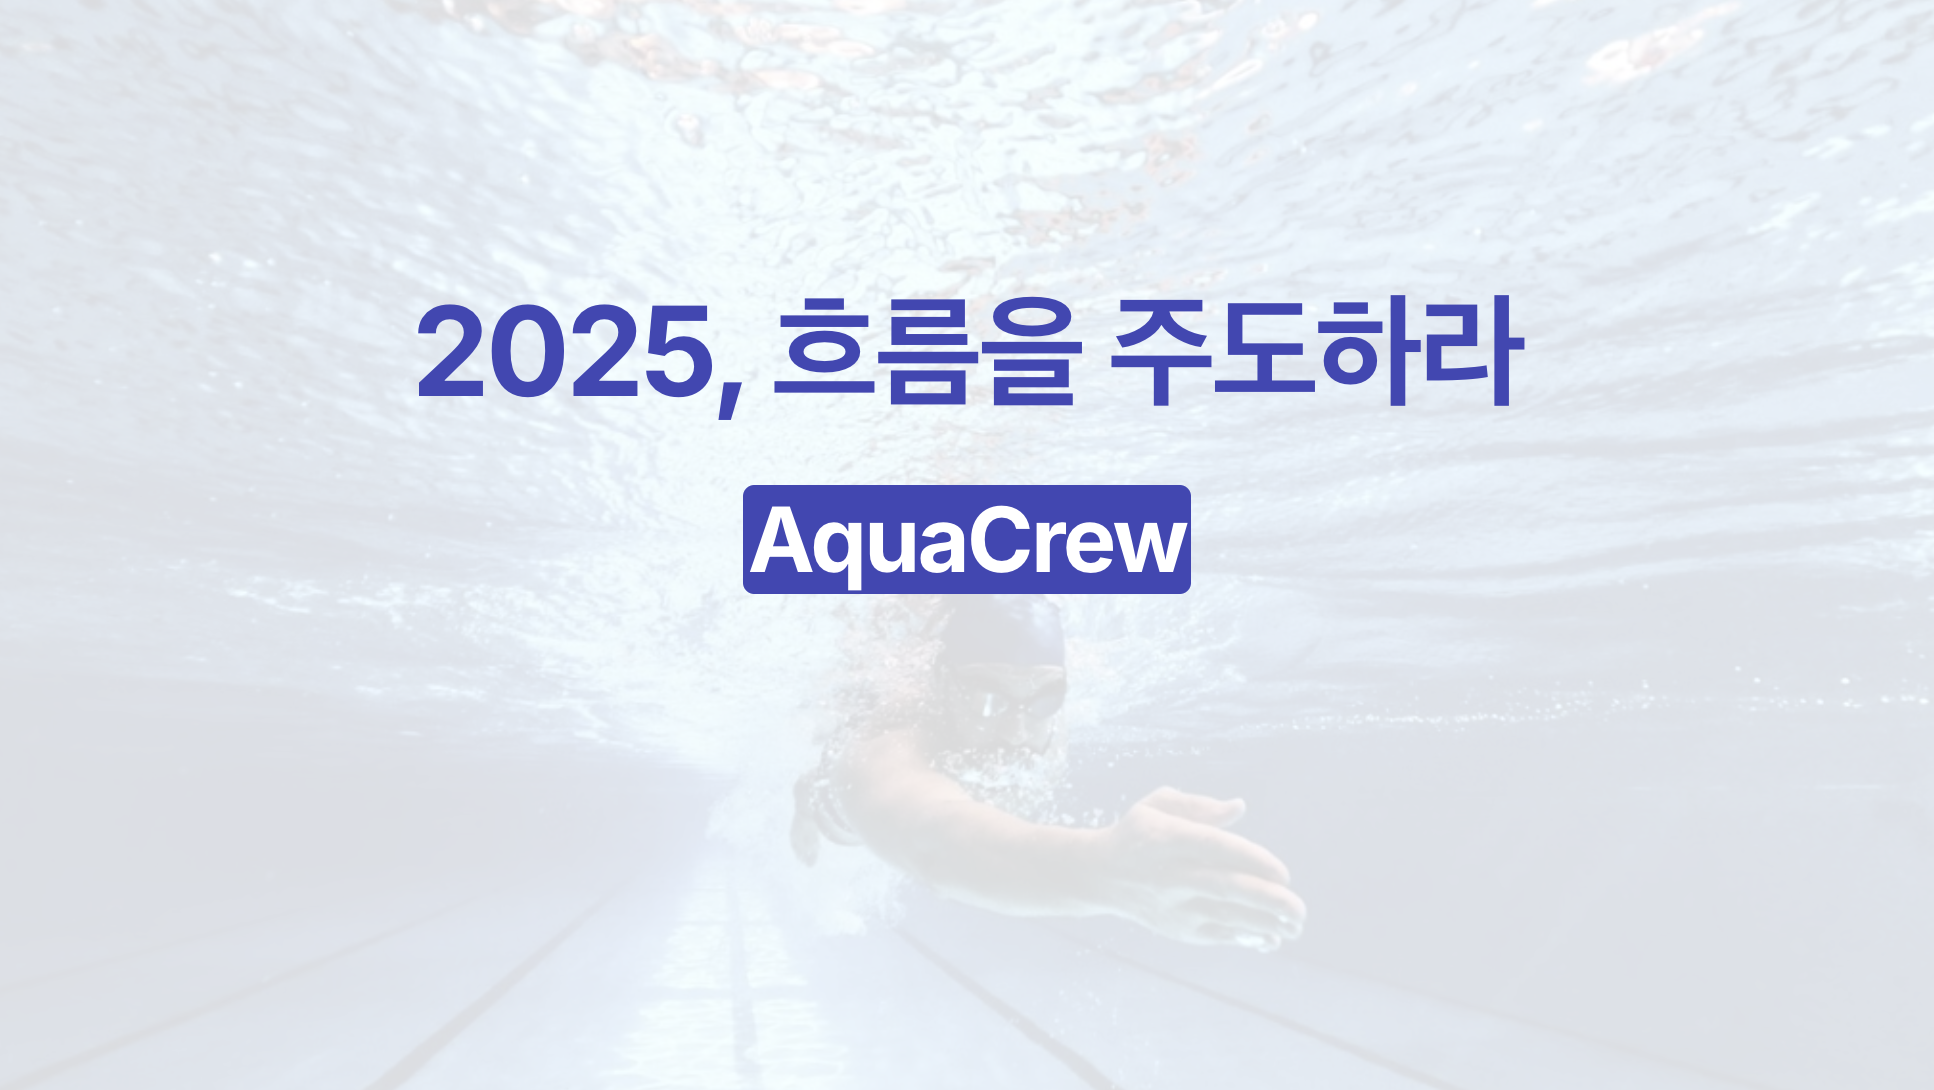
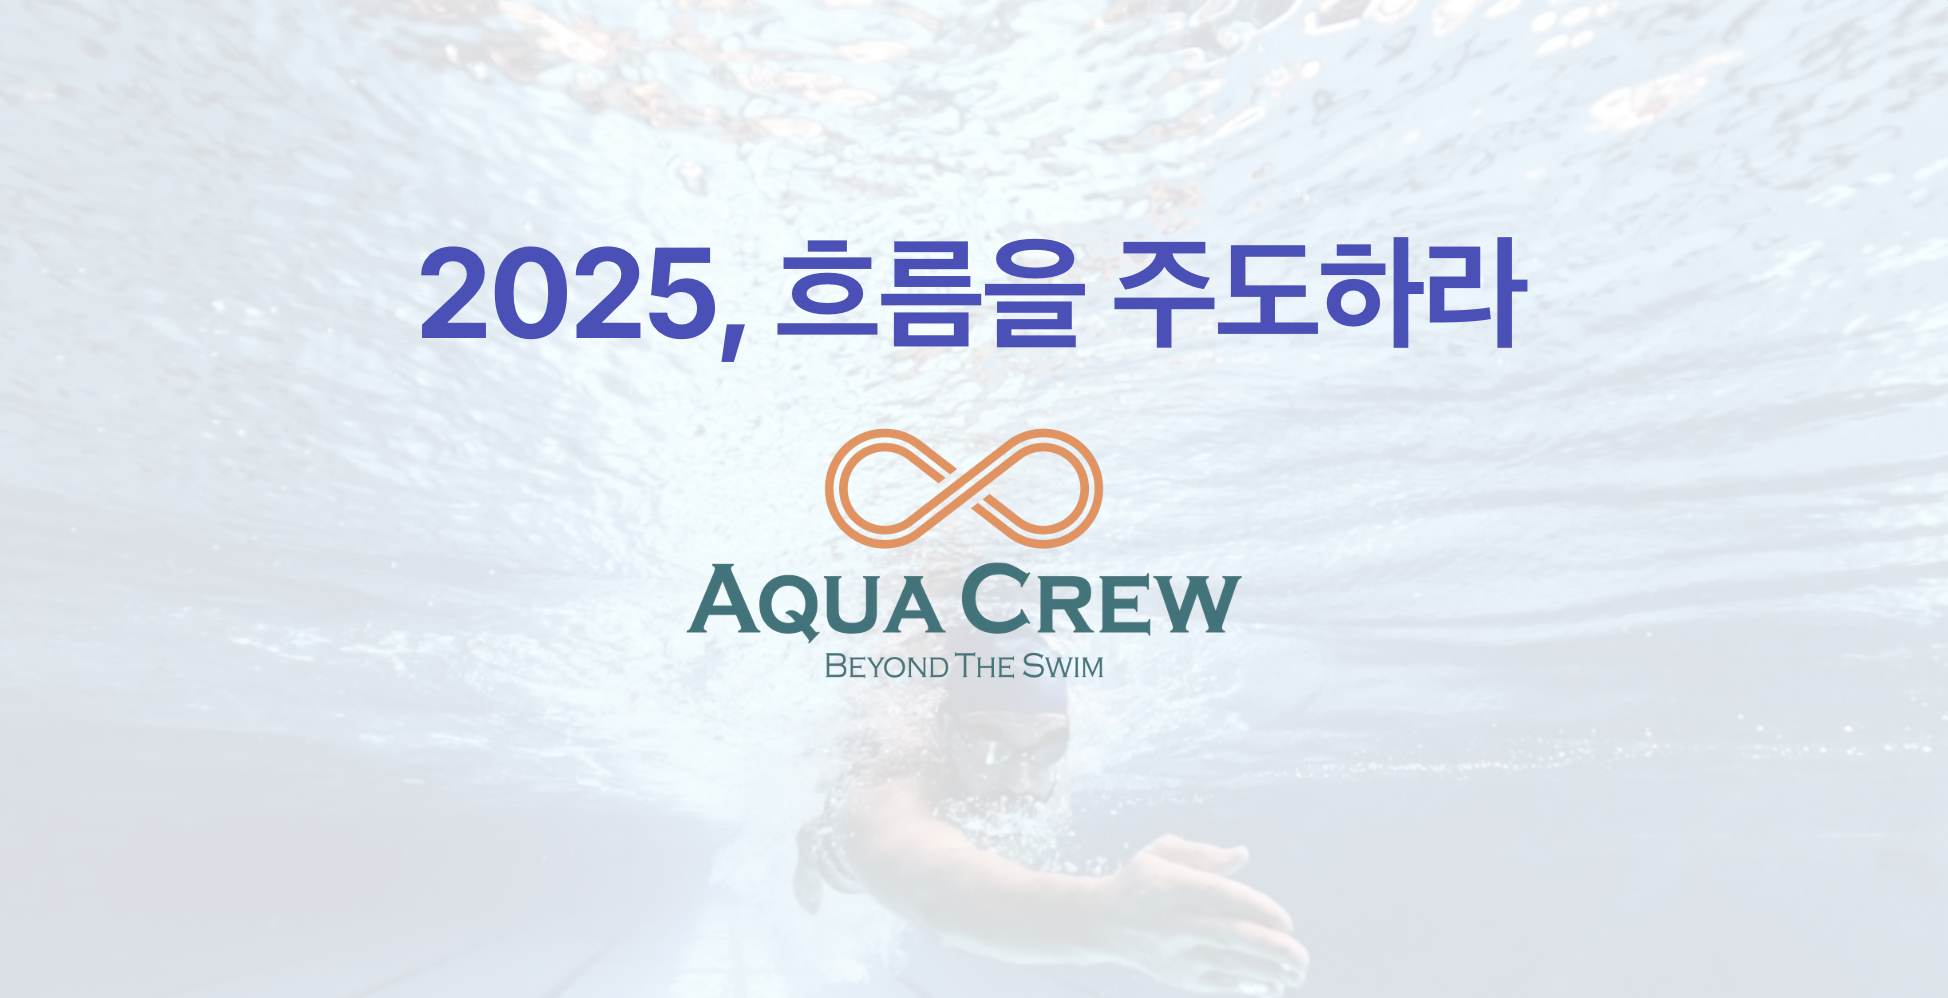
sort contents

diff --git a/content/post/event_20250116/index.md b/content/post/event_20250116/index.md
@@ -1,7 +1,8 @@
 ---
 title: 2025 아쿠아크루 슬로건 공모전
 date: 2025-01-16
-description: 2025 아쿠아크루 슬로건 공모전 결과 발표
+description: 2025, 흐름을 주도하라!
+weight: 1
 image: slogan.png
 tags:
  - 슬로건

diff --git a/content/post/intro/index.md b/content/post/intro/index.md
@@ -3,7 +3,7 @@ title: 우리는 아쿠아크루입니다
 description: 아쿠아크루를 소개합니다. 
 slug: about
 date: 2023-10-01 00:00:00+0000
-image: logo_itallic.png
+image: cover.png
 categories:
     - AquaCrew
 tags:
